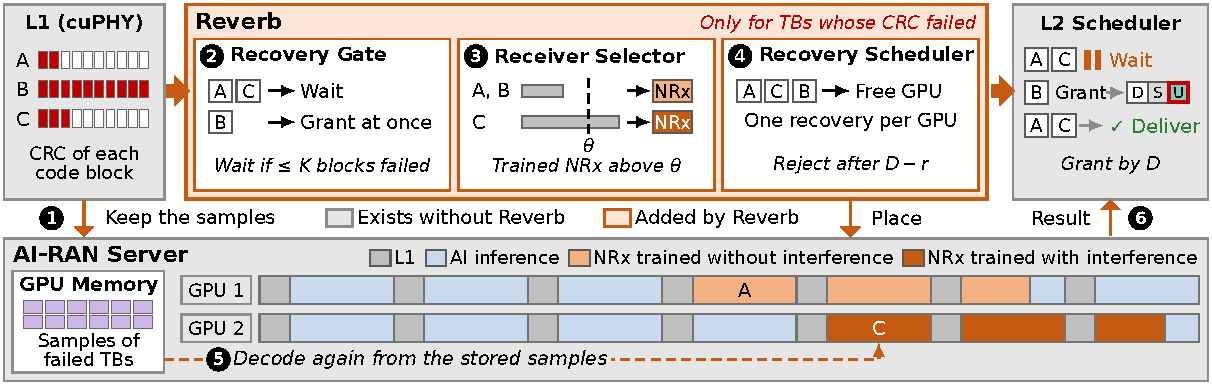
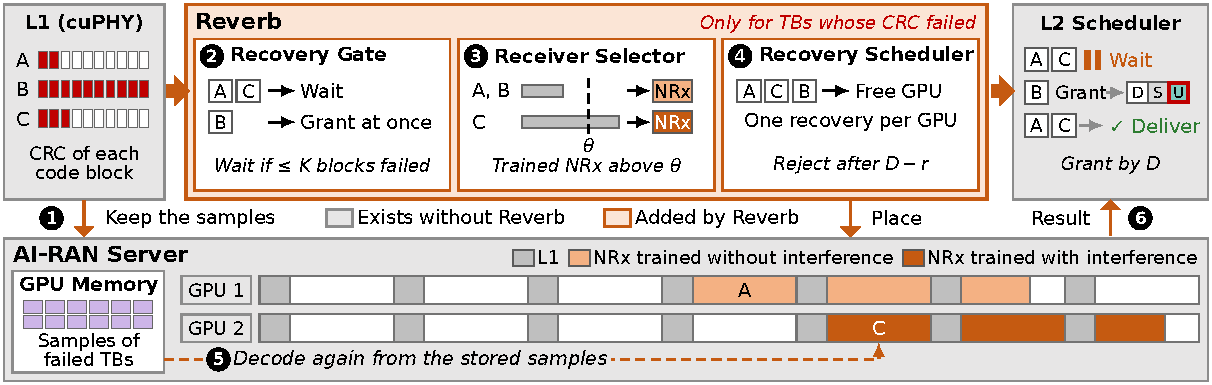
Figure 9(a) without AI inference: the GPU rows show the L1 and the recoveries, since Reverb does not schedule AI inference and the real-time runs place none

Changed region(s): [[0.2137, 0.6234, 0.6716, 0.9039], [0.8243, 0.7169, 1.0, 0.9039]]

diff --git a/figures/paper/src/design_overall.tex b/figures/paper/src/design_overall.tex
@@ -1,5 +1,5 @@
 % Figure (Section 4.1, a): the architecture of Reverb in an AI-RAN server and the procedure for a failed TB.  Gray: what
-% exists without Reverb (L1, L2 scheduler, the GPUs of the server, AI inference); orange: what Reverb adds (its three
+% exists without Reverb (L1, L2 scheduler, the GPUs of the server); orange: what Reverb adds (its three
 % components and the paths they open).  Running example: failed TBs A and B of cell 1 and C of cell 2.
 % (1) the received samples of a slot with a failed TB stay in GPU memory; (2) Recovery Gate: A and C failed at most K
 % code blocks and wait for their recovery, B failed all ten and gets its grant at once; (3) Receiver Selector: cell 2 has
@@ -79,7 +79,7 @@
   % ------------------------------------------------------------------ AI-RAN server (existing)
   \draw[existing] (0, -2.7) rectangle (13.9, -4.35);
   \node[ptitle, anchor=north west] at (0.06, -2.74) {AI-RAN Server};
-  \node[gtxt, font=\tabsize, anchor=north east] at (13.82, -2.79) {\lgd{l1c}\,L1\enspace \lgd{aic}\,AI inference\enspace
+  \node[gtxt, font=\tabsize, anchor=north east] at (13.82, -2.79) {\lgd{l1c}\,L1\enspace
     \lgd{nrxc}\,NRx trained without interference\enspace \lgd{nrxt}\,NRx trained with interference};
   \draw[draw=exline, fill=white, line width=0.5pt] (0.1, -3.08) rectangle (1.85, -4.25);
   \node[ctitle] at (0.975, -3.25) {GPU Memory};
@@ -89,7 +89,7 @@
   \node[gtxt, font=\tabsize] at (0.975, -3.99) {Samples of\\[-1pt]failed TBs};
   \foreach \g/\y/\rc/\tc/\t/\rs in {1/-3.3/nrxc/black/A/7.95, 2/-3.74/nrxt/white/C/9.5} {
     \node[exrow, minimum width=0.8cm, minimum height=0.32cm] at (2.45, \y) {GPU \g};
-    \draw[black!55, line width=0.35pt, fill=aic] (2.95, \y-0.16) rectangle (13.8, \y+0.16);
+    \draw[black!55, line width=0.35pt, fill=white] (2.95, \y-0.16) rectangle (13.8, \y+0.16);
     % to scale: an uplink slot every 1.55 cm, a recovery about two and a half slot periods long, interrupted by the L1
     \draw[black!55, line width=0.35pt, fill=\rc] (\rs, \y-0.16) rectangle (\rs+3.9, \y+0.16);
     \node[txt, text=\tc] at (\rs+0.6, \y) {\t};
